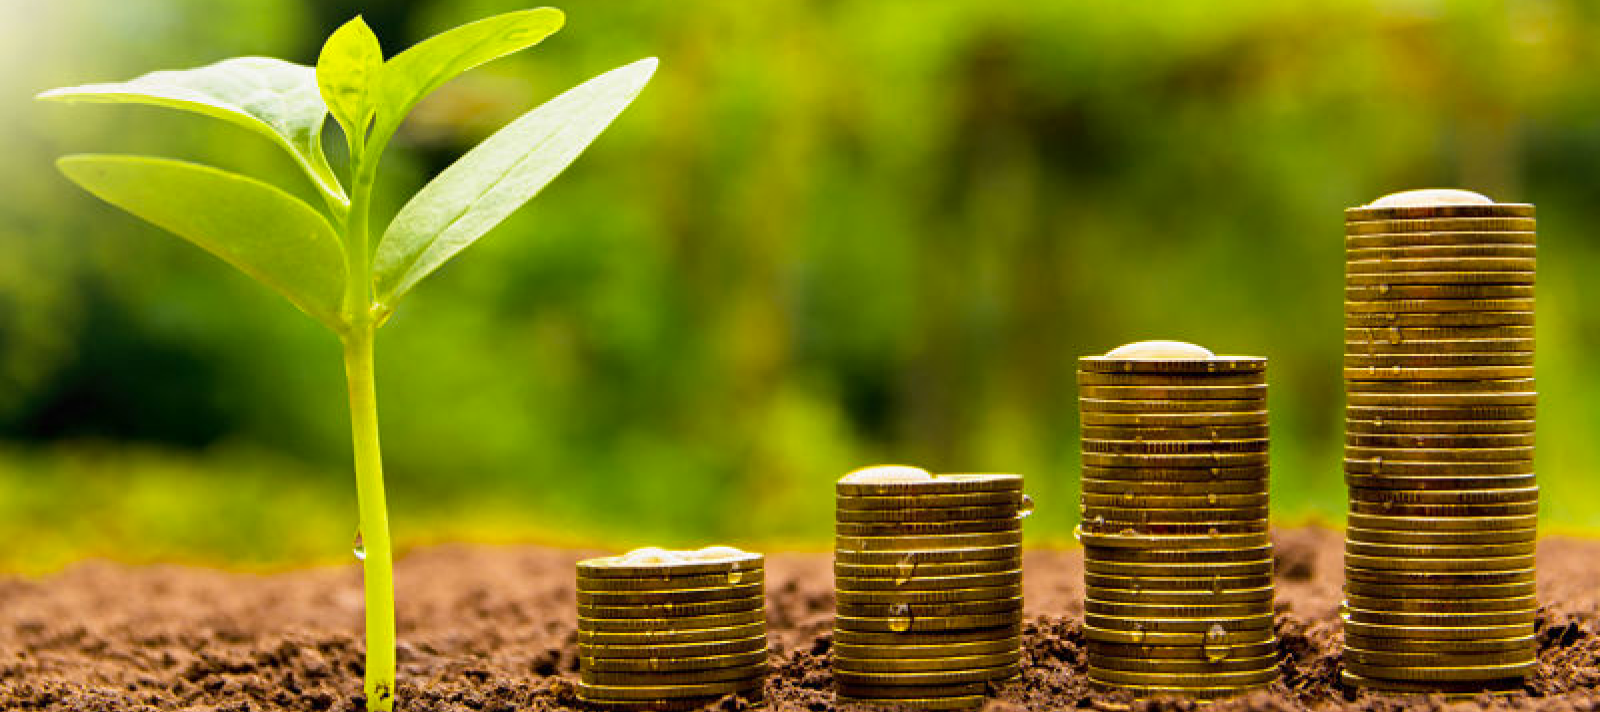
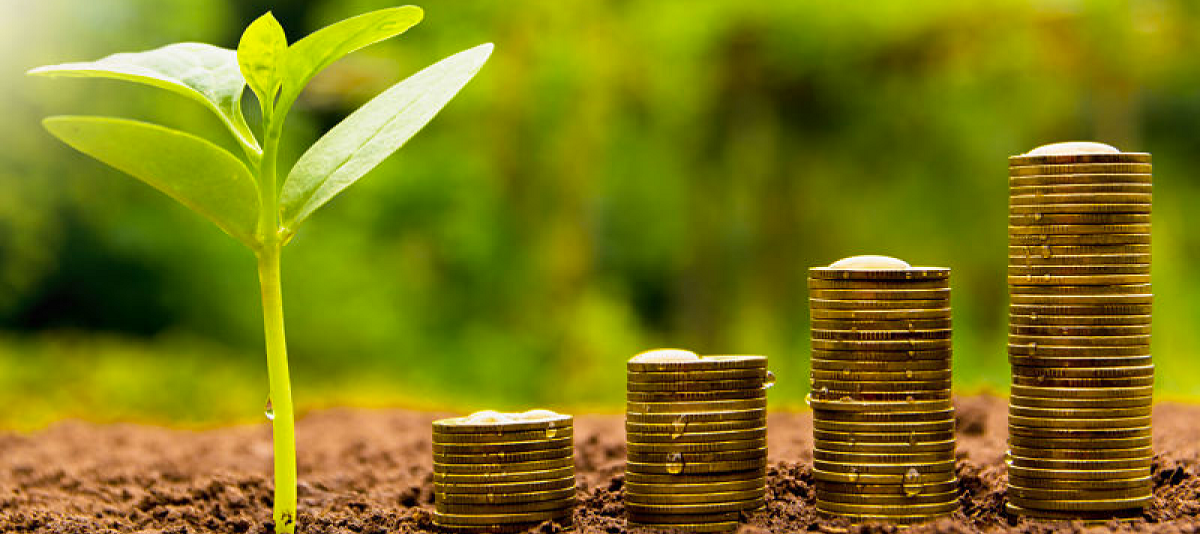
background img fixed

diff --git a/assets/css/styles.css b/assets/css/styles.css
@@ -294,7 +294,8 @@ nav .toggle.active::after{
     /* height: calc(100vh - var(--header-height)); */
     height: 100vh;
     width: 100%;
-    background-image: linear-gradient(rgba(48,72,60,0.7),rgba(48,72,60,0.7)), url('../img/PUT\ YOUR\ IMAGE\ HERE-2.png');
+    /* background-image: linear-gradient(rgba(48,72,60,0.7),rgba(48,72,60,0.7)), url('../img/hero-bg.png'); */
+    background-image: linear-gradient(rgba(0,0,0,0.6),rgba(0,0,0,0.6)), url('../img/hero-bg.png');
     background-repeat:   no-repeat;
     background-position: center center;
     -webkit-background-size: cover;
@@ -303,7 +304,7 @@ nav .toggle.active::after{
     background-size: cover;
     padding-bottom: 0;
     position: relative;
-    /* top: var(--header-height); */
+    top: var(--header-height);
 }
 
 @media (max-width: 400px) {
@@ -316,7 +317,7 @@ nav .toggle.active::after{
 #home .container{
     height: 100%;
     justify-content: center;
-    align-items: center;
+    align-items: flex-start;
 }
 
 #home .content{
@@ -479,6 +480,7 @@ nav .toggle.active::after{
     grid-template-columns: repeat(auto-fill, minmax(300px, 1fr));
     align-items: center;
     justify-content: space-between;
+    gap: 2rem;
     padding-top: 2rem;
     padding-bottom: 2rem;
   }
